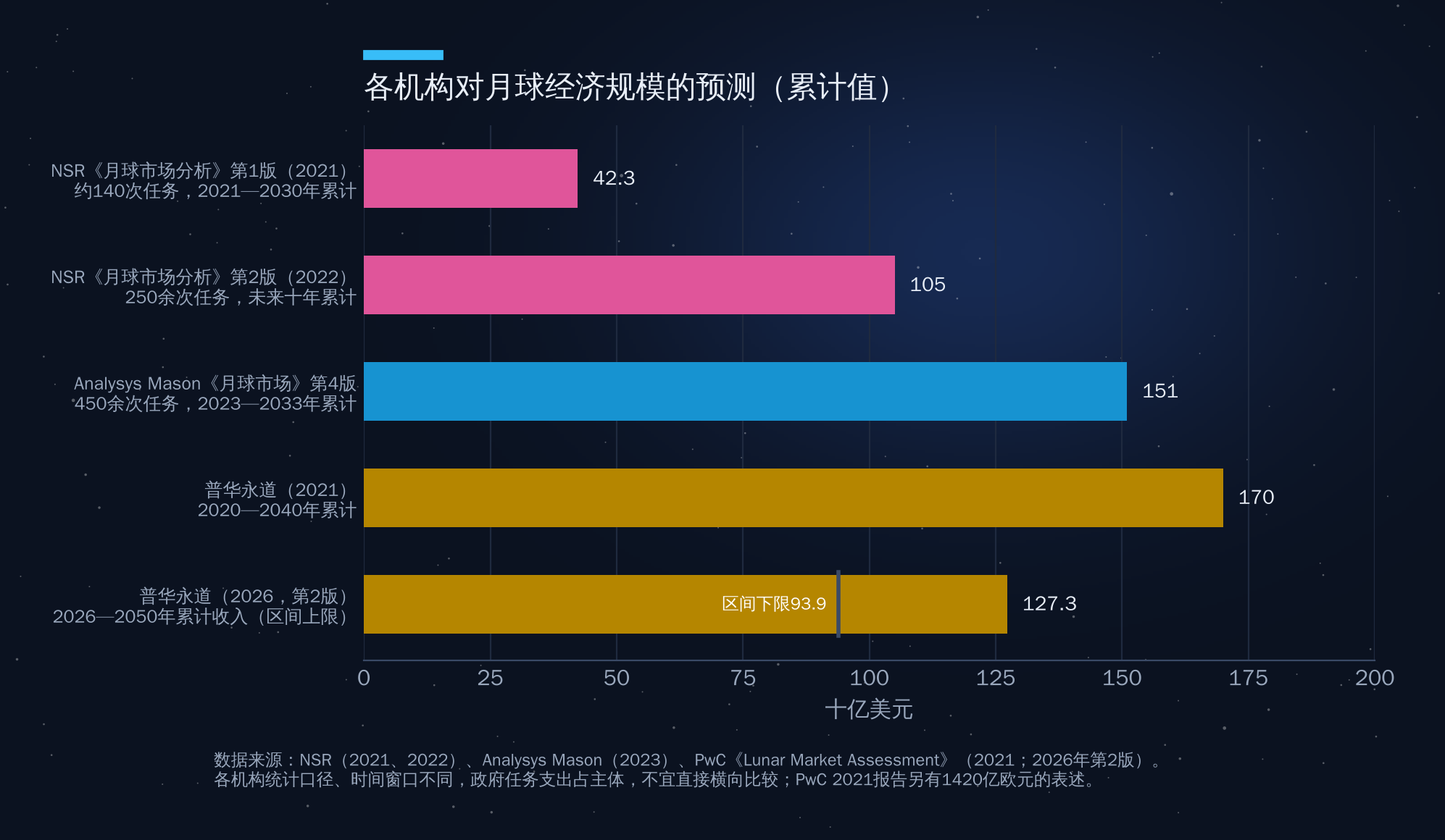
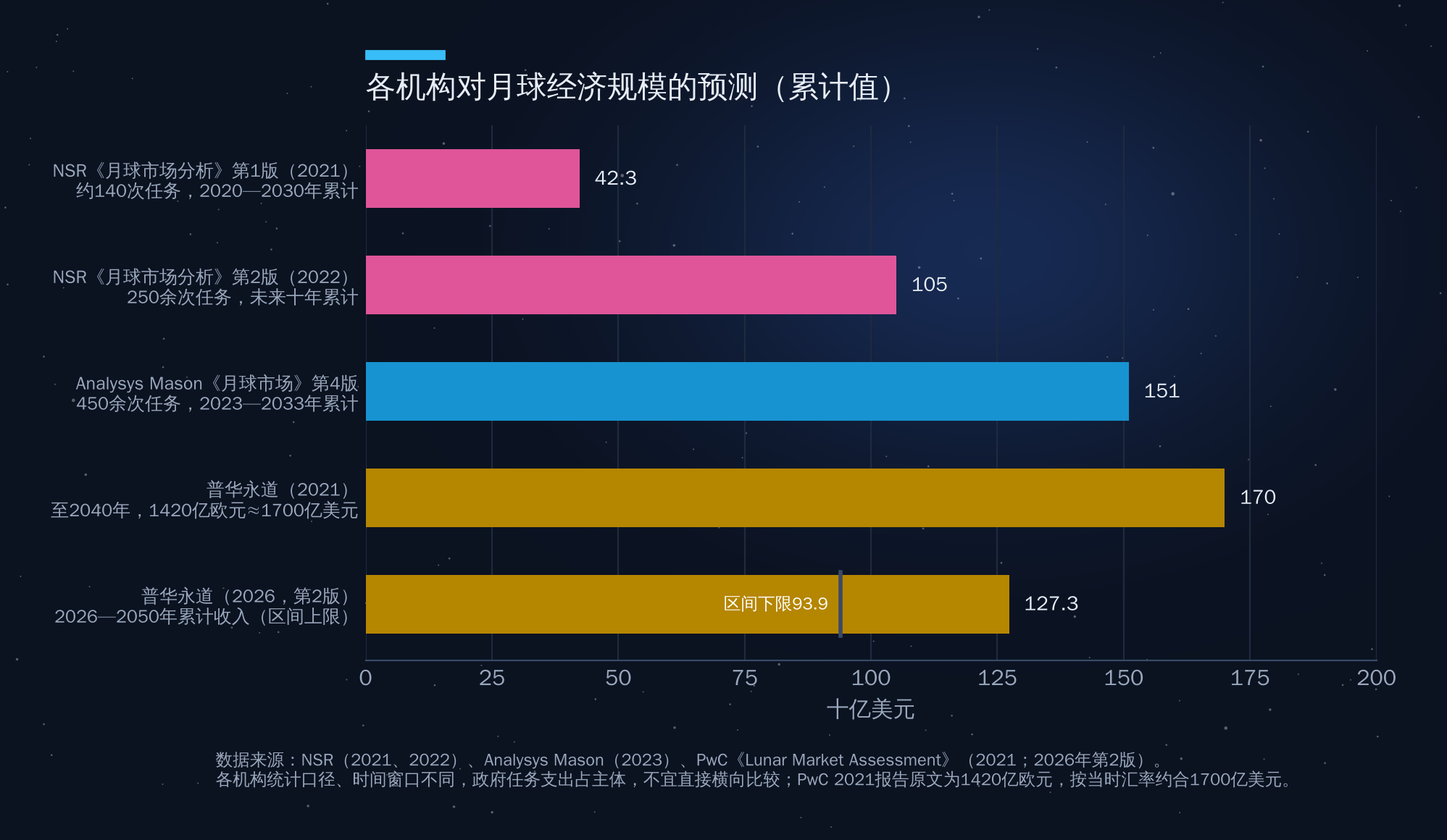
Part III: third-round exhaustive fact-check
Claude-Session: https://claude.ai/code/session_014tmLkR5ogaDPRCKC77QLgm

diff --git a/doha-space-economy/part3/charts/fig10-5_lunar_market.py b/doha-space-economy/part3/charts/fig10-5_lunar_market.py
@@ -3,10 +3,10 @@ sys.path.insert(0, str(pathlib.Path(__file__).resolve().parents[2] / "common"))
 from chartstyle import plt, PALETTE, ACCENT, GREY, save, source_note
 
 rows = [
-    ("NSR《月球市场分析》第1版（2021）\n约140次任务，2021—2030年累计", 42.3, PALETTE[5]),
+    ("NSR《月球市场分析》第1版（2021）\n约140次任务，2020—2030年累计", 42.3, PALETTE[5]),
     ("NSR《月球市场分析》第2版（2022）\n250余次任务，未来十年累计", 105, PALETTE[5]),
     ("Analysys Mason《月球市场》第4版\n450余次任务，2023—2033年累计", 151, PALETTE[0]),
-    ("普华永道（2021）\n2020—2040年累计", 170, PALETTE[3]),
+    ("普华永道（2021）\n至2040年，1420亿欧元≈1700亿美元", 170, PALETTE[3]),
     ("普华永道（2026，第2版）\n2026—2050年累计收入（区间上限）", 127.3, PALETTE[3]),
 ]
 fig, ax = plt.subplots(figsize=(9, 4.8))
@@ -22,5 +22,5 @@ ax.set_xlim(0, 200)
 ax.set_xlabel("十亿美元")
 ax.grid(axis="x", color="#E5E5E5"); ax.grid(axis="y", visible=False)
 ax.set_title("各机构对月球经济规模的预测（累计值）")
-source_note(fig, "数据来源：NSR（2021、2022）、Analysys Mason（2023）、PwC《Lunar Market Assessment》（2021；2026年第2版）。\n各机构统计口径、时间窗口不同，政府任务支出占主体，不宜直接横向比较；PwC 2021报告另有1420亿欧元的表述。")
+source_note(fig, "数据来源：NSR（2021、2022）、Analysys Mason（2023）、PwC《Lunar Market Assessment》（2021；2026年第2版）。\n各机构统计口径、时间窗口不同，政府任务支出占主体，不宜直接横向比较；PwC 2021报告原文为1420亿欧元，按当时汇率约合1700亿美元。")
 save(fig, __file__)

diff --git a/doha-space-economy/part3/charts/fig11-3_mars_cost.py b/doha-space-economy/part3/charts/fig11-3_mars_cost.py
@@ -6,7 +6,7 @@ rows = [
     ("印度 曼加里安（2013）", 0.74, PALETTE[2]),
     ("阿联酋 希望号（2020）", 2.0, PALETTE[2]),
     ("美国 火星探路者（1996）", 2.65, PALETTE[0]),
-    ("美国 MAVEN（2013）", 6.7, PALETTE[0]),
+    ("美国 MAVEN（2013）", 5.8, PALETTE[0]),
     ("美国 洞察号（2018）", 8.1, PALETTE[0]),
     ("美国 维京1/2号（1975）", 10.6, PALETTE[0]),
     ("美国 好奇号（2011）", 25, PALETTE[0]),
@@ -27,5 +27,5 @@ ax.set_xticklabels(["0.5", "1", "2", "5", "10", "20", "50", "100", "200"])
 ax.set_xlabel("任务成本（亿美元，名义值，对数坐标）")
 ax.grid(axis="x", color="#E5E5E5"); ax.grid(axis="y", visible=False)
 ax.set_title("典型火星任务成本对比：相差两个数量级")
-source_note(fig, "数据来源：ISRO、阿联酋穆罕默德·本·拉希德航天中心、NASA任务资料及NASA火星采样返回独立评审委员会（IRB-2，2023）。均为名义美元，\n未作通胀调整（维京号若折算为今日美元远高于图中数值）；各任务口径（是否含发射、运行）不完全一致。天问一号未公开成本，未列入。")
+source_note(fig, "数据来源：ISRO、阿联酋穆罕默德·本·拉希德航天中心、NASA任务资料及NASA火星采样返回独立评审委员会（IRB-2，2023）。MAVEN为实际决算（预算6.7亿）；均为名义美元，\n未作通胀调整（维京号若折算为今日美元远高于图中数值）；各任务口径（是否含发射、运行）不完全一致。天问一号未公开成本，未列入。")
 save(fig, __file__)

diff --git a/doha-space-economy/part3/charts/fig10-2_lunar_samples.py b/doha-space-economy/part3/charts/fig10-2_lunar_samples.py
@@ -4,7 +4,7 @@ from chartstyle import plt, PALETTE, ACCENT, GREY, save, source_note
 
 names = ["苏联月球16/20/24号\n（1970—1976，3次无人）", "中国嫦娥五号\n（2020，月球正面）", "中国嫦娥六号\n（2024，月球背面）", "美国阿波罗11—17号\n（1969—1972，6次载人）"]
 grams = [326, 1731, 1935.3, 382000]
-labels = ["约326克", "1731克", "1935.3克", "约382公斤"]
+labels = ["约0.3公斤", "1731克", "1935.3克", "约382公斤"]
 colors = [GREY, PALETTE[0], PALETTE[0], PALETTE[3]]
 fig, ax = plt.subplots(figsize=(8.5, 4.4))
 y = range(len(names))[::-1]
@@ -18,5 +18,5 @@ ax.set_xlim(50, 3e6)
 ax.set_xlabel("返回地球的月球样品质量（克，对数坐标）")
 ax.grid(axis="x", color="#E5E5E5"); ax.grid(axis="y", visible=False)
 ax.set_title("人类从月球带回的样品质量对比")
-source_note(fig, "数据来源：NASA（阿波罗约382公斤）、CNSA（嫦娥五号1731克、嫦娥六号1935.3克）；苏联三次采样分别约101克、55克、170克，合计约326克（各文献略有出入）。")
+source_note(fig, "数据来源：NASA（阿波罗约382公斤）、CNSA（嫦娥五号1731克、嫦娥六号1935.3克）；苏联三次采样分别约101克、55克（一说30克）、170克，合计约301—326克。")
 save(fig, __file__)

diff --git a/doha-space-economy/part3/charts/fig10-1_change_timeline.py b/doha-space-economy/part3/charts/fig10-1_change_timeline.py
@@ -13,7 +13,7 @@ events = [
     (2024.22, "鹊桥二号", "新一代中继星", "四期", "done"),
     (2024.48, "嫦娥六号", "月背采样1935.3克", "回", "done"),
     (2027.6, "嫦娥七号", "南极资源勘查\n（2026年8月推迟）", "四期", "plan"),
-    (2028.6, "嫦娥八号", "原位资源利用试验", "四期", "plan"),
+    (2029.2, "嫦娥八号", "原位资源利用试验\n（约2029年）", "四期", "plan"),
     (2029.9, "载人登月", "2030年前", "载人", "plan"),
     (2035.0, "ILRS基本型", "约2035年", "四期", "plan"),
 ]

diff --git a/doha-space-economy/part3/zz_notes.md b/doha-space-economy/part3/zz_notes.md
@@ -4,13 +4,13 @@
 
 **月球部分**
 
-- 美国行星协会（The Planetary Society）：《How much did the Apollo program cost?》，阿波罗计划1960—1973年支出258亿美元、折合2025年美元约3090亿美元（该页早期版本为2020年美元约2570亿美元）。
-- NASA监察长办公室：《NASA's Management of the Artemis Missions》（IG-22-003，2021年11月），阿尔忒弥斯2012—2025财年累计约930亿美元、单次SLS/猎户座约41亿美元。
-- NASA月球任务统计（据媒体2019年、2023年引用的NASA Moon Fact Sheet）：1958—2023年约111次月球任务，62次成功。
-- 国家航天局（CNSA）、中国载人航天工程办公室、新华社、中新网：嫦娥一号至六号任务、样品质量、嫦娥七号载荷与推迟通报（2026年8月23日）、嫦娥八号国际合作项目、国际月球科研站伙伴数量（2025年4月）、"嫦娥石"（2022年9月）及镁嫦娥石、铈嫦娥石（2026年4月）。
+- 美国行星协会：《How much did the Apollo program cost?》（阿波罗258亿美元，折合2025年约3090亿美元）。
+- NASA监察长办公室：IG-22-003（2021年，阿尔忒弥斯成本）；IG-26-004（2026年3月，载人着陆系统合同）。
+- NASA月球任务数据库（据2023年媒体引用）：111次月球任务，62次成功。
+- 国家航天局、中国载人航天工程办公室、新华社、中新网：嫦娥各任务、嫦娥七号推迟通报、嫦娥八号合作项目、国际月球科研站、月球新矿物。
 - 《自然》（Nature）2025年嫦娥六号样品系列论文；国家自然科学基金委2025年度"中国科学十大进展"（2026年3月发布）。
-- 中国载人航天工程办公室：长征十号低空演示验证与梦舟最大动压逃逸飞行试验（2026年2月11日）；神舟二十三号任务新闻发布会（2026年5月）。新华社：梦舟零高度逃逸（2025年6月17日）、揽月着陆起飞综合验证（2025年8月6日）、长征十号系留点火（2025年8月15日、9月12日）、长征十号乙首飞及一子级回收（2026年7月10日）；航天科技集团一院（长征十号地月转移运力不小于27吨）。
-- NASA、路透社、CNN、NBC等：阿尔忒弥斯2号（2026年4月1日—10日）、阿尔忒弥斯3号/4号调整、"点火"发布会（2026年3月24日）门户站暂停与约200亿美元月球基地计划、2026年6月约5.9亿美元月球基地货运合同。
+- 中国载人航天工程办公室、新华社、航天科技集团一院：梦舟、揽月、长征十号系列各项试验（2025—2026年）。
+- NASA及路透社、CNN、NBC等：阿尔忒弥斯2号、架构调整、"点火"发布会与月球基地计划及货运合同。
 - NASA阿尔忒弥斯协定页面、美国国务院：截至2026年9月25日共76个签署国。
 - Payload、《科学美国人》等：新格伦火箭2026年5月28日静态点火爆炸及对"蓝月"MK1的影响。
 - NSR《Moon Market Analysis》第1、2版；Analysys Mason《Lunar Markets》第4版；普华永道《Lunar Market Assessment》（2021年及2026年1月第2版）。
@@ -38,37 +38,47 @@
 1. 阿尔忒弥斯2号：已于2026年4月1日发射、4月10日溅落，四名乘组安全返回（NASA及多家媒体）。
 2. 阿尔忒弥斯3号：已改为2027年近地轨道交会对接试验；首次载人登月改为阿尔忒弥斯4号，目标2028年（NASA 2026年公布，具体日期仍为暂定）。
 3. 门户站：2026年3月24日NASA宣布"暂停当前形式"，转向月面基地；媒体有"取消"与"暂停"两种表述，本稿采用NASA原话"暂停"。
-4. 嫦娥七号：原定2026年8月下旬发射，8月23日官方宣布"不满足发射条件，不能在今年预定窗口实施"；第二轮核查（10月）仍未见官方公布原因和新日期，"推迟至2027年"为媒体推测（CGTN等解释为南极光照窗口所限）。
+4. 嫦娥七号：8月23日官方宣布不能在今年预定窗口实施；原因与新日期未公布，"推迟至2027年"为媒体推测。
 5. 天问二号：2026年7月抵达目标小行星；第二轮核实 → 尚未采样，约一年后采样、2027年底返回；采样目标约100克（原稿"几十到上百毫克"有误，已改）→ 国家航天局、新华社。
 6. 火星采样返回：2026年1月23日签署的拨款法案不支持现有MSR计划，另设1.1亿美元"火星未来任务"。
-7. 星舰火星计划：马斯克2026年2月宣布重点转向月球；未检索到SpaceX正式宣布放弃2026年窗口的声明，但2026年窗口发射星舰的可能性极低。
+7. 星舰火星计划：见第32条。
 8. 阿尔忒弥斯协定：76个签署国（圣马力诺，2026年9月25日）。
-9. 长征十号/梦舟：第二轮核实 → 截至10月8日梦舟一号/长征十号甲首次入轨飞行仍未实施（官方计划2026年内）；长征十号乙7月10日首飞并回收一子级，已补入正文 → 新华社。
+9. 长征十号/梦舟：梦舟一号/长征十号甲首次入轨飞行截至10月8日未实施；长征十号乙7月10日首飞并回收一子级 → 新华社。
 10. 阿波罗成本：采用行星协会现行页面的258亿美元（名义）/约3090亿美元（2025年美元）；常见的"2570亿美元"为2020年美元口径。
-11. 月球经济预测：普华永道2021年报告存在"1700亿美元"与"1420亿欧元"两种引用，图10-5采用1700亿美元并在图注中说明。
+11. 月球经济预测：见第27条。
 
 **第二轮核查（2026年10月8日）新增结论**
 
-12. 梦舟零高度逃逸（2025年6月17日，酒泉）、揽月着陆起飞综合验证（2025年8月6日，怀来）、长征十号系留点火（2025年8月15日、9月12日两次）→ 已核实，正文补具体日期 → 新华社。长征十号地月转移运力 → 官方口径"不小于27吨"（设计值；2023年曾有25吨说法），表10-3已改 → 航天科技集团一院、新华社。
+12. 梦舟零高度逃逸（2025年6月17日）、揽月综合验证（8月6日）、长征十号系留点火（8月15日、9月12日）→ 已核实；长征十号地月转移运力采用官方"不小于27吨" → 新华社、一院。
 13. 天问三号 → 已核实：2028年前后发射、2031年前后返回，样品约500克（新华社引述），2026年转入正样研制；已补入正文。
 14. 2026年月面着陆 → 已核实：截至10月初无新尝试；Griffin-1目标2026年11月（猎鹰重型），IM-3推至2027年上半年，"蓝月"MK1随新格伦复飞推至2027年初，"蓝色幽灵"M2为2027年 → NASA、Spaceflight Now等。
 15. 阿尔忒弥斯3号/4号 → 确认无新变化：3号为2027年近地轨道对接试验，4号目标2028年初登月，着陆器未定。门户站暂停后，阿联酋气闸舱与宇航员座位 → 仍无公开定论，正文表述不变。
 16. "拉希德2号" → 已核实：2023年因美国ITAR限制退出嫦娥七号，2025年5月改搭"蓝色幽灵"M2赴月背，目标2027年。正文已补，与第二、四部分一致。
-17. 国际月球科研站伙伴数 → 口径差异：本部分"17个国家和国际组织、50多个科研机构"为2025年4月中国航天日公布的口径（含亚太空间合作组织等国际组织）；第四部分"约13国"只计主权国家。正文已加括注说明。未检索到2026年官方新统计（有媒体援引2026年10月杨利伟讲话称"十多个国家、近30个国际科研机构"，原文未能核对）。
+17. 国际月球科研站伙伴数 → 口径差异：本部分"17个国家和国际组织"为2025年4月官方口径（含国际组织）；第四部分"约13国"只计主权国家，正文已括注。
 18. MAVEN → 已核实：2025年12月6日失联，2026年6月3日NASA异常评审委员会认定无法恢复、任务结束；表11-1已改。
 19. 罗莎琳德·富兰克林号 → 已核实：2028年发射、2030年着陆；国会2026财年拨款保留美方支持，NASA于2026年4月16日重申承诺；2027财年预算申请中未见相关经费，仍有变数。
 20. 日本MMX → 已核实：定于2026年10月20日用H3火箭发射（备用期至11月7日），2031财年返回；已补入正文，演讲前请确认。
 21. 约7亿美元火星通信轨道器 → 已核实，且有新进展：2026年9月1日NASA授予蓝色起源（"火星通信网络"，2028年底前交付、2030年前后运行）；已补入正文。ESCAPADE成本不到1亿美元确认。
 22. 嫦娥五号含水量 → 原稿"约120ppm"改为"不超过约120ppm"（上限值）；月船3号61.5亿卢比（约7500万美元）、SLIM落点距目标约55米 → 确认无误。
 
+**第三轮核查（2026年10月8日）新增结论**
+
+23. 已核实：火星航行往返约0.66希沃特（Zeitlin等，2013）、表面约0.64毫希沃特/天（Hassler等，2014）；MOXIE 16次运行、122克、最高每小时12克（NASA，2023年9月）；洞察号1319次火震、机遇号45.16公里（NASA、吉尼斯）。
+24. 有误已改：NASA 2024年5月火星商业服务研究为9家公司、12项研究（SpaceX、蓝色起源、洛克希德·马丁、联合发射联盟、Astrobotic、萤火虫、Impulse、Redwire、Albedo），原稿的"火箭实验室"不在其中 → NASA/JPL。
+25. 有误已改：嫦娥八号由"2028年前后"改为"2029年前后"（国家航天局2025年4月24日），正文、表10-2、图10-1已改。
+26. 图10-2：月球20号有55克、30克两说，苏联合计改为"约0.3公斤（301—326克）"。
+27. 图10-5：NSR第1版140次、423亿美元（2020—2030年）、第2版250余次、1050亿美元；Analysys Mason 450余次、1510亿美元（2023—2033年）→ 已核实。普华永道1420亿欧元与1700亿美元为同一估算的两种货币表述，已改。
+28. 图10-3的15次着陆逐项核对无误；NASA"111次、62次成功、41次失败、8次部分成功"确认（2023年媒体引述）。
+29. 图11-1逐项核对：美国22、苏联17、俄罗斯2、欧洲2、日本1、中国2、印度1、阿联酋1，合计48（成功20、部分7、失败21）。
+30. 图11-3：MAVEN由预算6.7亿改为决算约5.8亿美元（美国行星协会）；其余数值与希望号轨道参数确认。
+31. 星舰：V3首飞为2026年5月22日；在轨推进剂转移试验据NASA监察长IG-26-004推迟至2026年8月，截至8月下旬未实施，正文已改；加注次数改为"SpaceX估计约10次、NASA估计总发射十几次"。
+32. SpaceX 2026火星窗口：仍无正式放弃声明；《华尔街日报》2月6日报道与马斯克2月8日表态已核实，正文不变。
+33. 梦舟一号、嫦娥七号截至10月8日无新官方消息；MMX确认10月20日发射（备用期至11月7日）。
+34. 其他已核实：艾萨克曼"完美的任务"；月球基地第一阶段至2028年约100亿美元；2026年新签协定国家；阿拉伯天文学和空间科学联盟2024年4月加入国际月球科研站；嫦娥六号居2025年度"中国科学十大进展"首位；镁嫦娥石、铈嫦娥石；天问二号约400天、10亿公里；毅力号33管。"蓝宝石峡谷"引语改为达菲原话；ESA合同4.91亿欧元确认，"终止合同"改为"要求取消、商讨转用"。
+
 **仍未能在线核实、请作者确认的事项**
 
-以下内容第二轮因检索额度所限未逐条复核，依据公开报道和常用文献数值写成，建议演讲前核对：
-
-1. 梦舟一号/长征十号甲首次入轨飞行若在10月8日后实施，请更新第10.6节和表10-3；嫦娥七号如公布新窗口请同步更新。
-2. NASA 2024年火星商业服务研究的入选公司名单（正文列举SpaceX、蓝色起源、洛克希德·马丁、火箭实验室）。
-3. 火星辐射数据（航行阶段约0.66希沃特、表面约0.64毫希沃特/天）、MOXIE结果（16次运行、122克、每小时12克）、洞察号1300多次火震、机遇号行驶约45公里等，均为公开文献的常用数值。
-4. 图11-1火星任务统计为作者按航天器逐一整理（共48次），不同机构对"部分成功"的界定不同，总数可能与其他统计略有出入。
-5. 图11-2地火发射窗口为根据火星冲日日期推算的近似区间，非官方发布的窗口；具体任务的发射日期可略早或略晚（如MMX定于2026年10月20日发射，ESCAPADE采用"先发射、后借力"方式）。
-6. SpaceX是否正式放弃2026年火星窗口：二手资料称SpaceX已向投资者表示先月后火、官网火星货运改为"不早于2028年"，未检索到SpaceX正式声明，正文保持审慎表述。
-7. 火星探测公共投入"不到全球GDP十万分之五"为作者粗略估算（按全球年投入约50亿美元、全球GDP约110万亿美元计）。
+1. 梦舟一号首飞、嫦娥七号新窗口：如有官方消息请更新第10.6节、表10-3、图10-1。
+2. 普华永道2021年报告是否为累计值（原文PDF被拦截）。
+3. ESA要求取消地球返回轨道器的月份（"2026年3月"仅见汇总网站）。
+4. 图11-2发射窗口为作者按冲日推算的近似区间；"不到全球GDP十万分之五"为作者估算（年投入约50亿美元、GDP约110万亿美元）。

diff --git a/doha-space-economy/part3/ch10.md b/doha-space-economy/part3/ch10.md
@@ -12,7 +12,7 @@
 
 月球探测的前十年，几乎每一个"第一"都属于苏联。1959年1月，月球1号成为第一个脱离地球引力、飞越月球的航天器；同年9月14日，月球2号撞击月面，人类制造的物体第一次到达另一个天体；10月，月球3号拍下了人类从未见过的月球背面。1966年2月，月球9号在风暴洋实现人类首次月面软着陆，传回第一张月面全景照片；同年4月，月球10号成为第一颗月球人造卫星。
 
-载人登月竞赛失利之后，苏联转向无人采样。1970年9月，月球16号在丰富海钻取约101克月壤并返回地球，这是人类第一次用机器人从地外天体带回样品；两个月后，月球17号把"月球车1号"送上月面，这辆八轮遥控车累计行驶约10.5公里。月球20号（1972年，约55克）和月球24号（1976年，约170克）又带回两批样品，三次合计约326克。1976年8月的月球24号，也是苏联最后一次月球任务。
+载人登月竞赛失利之后，苏联转向无人采样。1970年9月，月球16号在丰富海钻取约101克月壤并返回地球，这是人类第一次用机器人从地外天体带回样品；两个月后，月球17号把"月球车1号"送上月面，这辆八轮遥控车累计行驶约10.5公里。月球20号（1972年，约55克，一说30克）和月球24号（1976年，约170克）又带回两批样品，三次合计约0.3公斤。1976年8月的月球24号，也是苏联最后一次月球任务。
 
 苏联的载人登月计划则因N1重型火箭连续四次发射失败（1969—1972年）而夭折。N1第一级有30台发动机并联，在当时的控制技术条件下难以协调，这一教训直到半个世纪后SpaceX用33台猛禽发动机的超重型助推器才算真正"翻篇"。
 
@@ -70,7 +70,7 @@
 | 鹊桥二号 | 2024年3月 | 四期 | 新一代中继星，服务嫦娥六、七、八号 |
 | 嫦娥六号 | 2024年5月 | 四期 | 人类首次月球背面采样，带回1935.3克 |
 | 嫦娥七号 | 原定2026年8月，已推迟 | 四期 | 南极环境与资源勘查 |
-| 嫦娥八号 | 计划2028年前后 | 四期 | 原位资源利用技术验证 |
+| 嫦娥八号 | 计划2029年前后 | 四期 | 原位资源利用技术验证 |
 
 ![图10-1　中国探月工程任务时间轴（2007—2035年）](charts/fig10-1_change_timeline.png)
 
@@ -106,7 +106,7 @@
 
 #### 嫦娥八号与国际月球科研站
 
-嫦娥八号计划2028年前后发射，由着陆器、月球车和智能月面机器人组成，最受关注的是"原位资源利用"试验——用聚集的太阳能熔融月壤、以3D打印方式制造"月壤砖"，验证"就地取材盖房子"的可能性。嫦娥八号向国际社会提供了约200公斤的载荷搭载能力，2025年4月公布的10个入选合作项目中，包括巴基斯坦月球车和香港高校研制的月面多功能操作机器人。
+嫦娥八号计划2029年前后发射（2025年4月官方口径），由着陆器、月球车和智能月面机器人组成，最受关注的是"原位资源利用"试验——用聚集的太阳能熔融月壤、以3D打印方式制造"月壤砖"，验证"就地取材盖房子"的可能性。嫦娥八号向国际社会提供了约200公斤的载荷搭载能力，2025年4月公布的10个入选合作项目中，包括巴基斯坦月球车和香港高校研制的月面多功能操作机器人。
 
 国际月球科研站（ILRS）由中国发起，计划在2035年前后于月球南极建成"基本型"，此后扩展为更完整的设施。截至2025年4月，已有17个国家和国际组织、50多个国际科研机构加入合作（若只计主权国家，约为13国，见第12章）。2024年4月，阿拉伯天文学和空间科学联盟（AUASS）加入国际月球科研站，这为海湾和阿拉伯国家参与中国主导的月球体系提供了制度化渠道。
 
@@ -164,7 +164,7 @@
 
 如图10-4所示，阿尔忒弥斯十多年的累计投入不到阿波罗折算后的三分之一，却还没有完成一次登月；而NASA预算在联邦支出中的比重只有阿波罗高峰期的十分之一左右。在这种约束下，美国只能把希望寄托在商业伙伴身上：SpaceX以约28.9亿美元（2021年）拿下首个载人着陆系统合同，后又获得追加任务；蓝色起源以约34亿美元（2023年）获得第二个着陆器合同。
 
-但商业方案也有自己的难题。星舰着陆器需要在近地轨道先由多艘"油轮"星舰补加推进剂——外界估计约需10次左右的加注发射——才能飞往月球。截至2026年年中，两艘星舰之间的在轨推进剂转移尚未进行，较NASA监察长此前跟踪的2026年3月节点已经延误。2026年5月，第三代（V3）星舰首次试飞。
+但商业方案也有自己的难题。星舰着陆器需要在近地轨道先由多艘"油轮"星舰补加推进剂——SpaceX估计约需10次左右的加注发射，NASA估计一次登月所需星舰发射总数在"十几次"——才能飞往月球。两艘星舰间的在轨推进剂转移试验原定2025年3月，NASA监察长2026年3月的报告显示已推迟到2026年8月；截至8月下旬仍未进行。2026年5月22日，第三代（V3）星舰首次试飞。
 
 另一个变化来自马斯克本人。2026年2月，他宣布SpaceX的近期重点从火星转向在月球建设"自我生长的城市"，理由是月球每10天就有发射机会，迭代速度远快于每26个月才有一次窗口的火星。据《华尔街日报》报道，SpaceX向投资者表示目标是在2027年3月前实现无人月面着陆。
 
@@ -222,7 +222,7 @@
 
 ![图10-5　各机构对月球经济规模的预测（累计值）](charts/fig10-5_lunar_market.png)
 
-如图10-5所示：NSR 2021年预测2021—2030年将有约140次月球任务、累计产生423亿美元收入，2022年将其上调为250余次任务、未来十年1050亿美元；Analysys Mason预测2023—2033年将有450余次任务、累计收入1510亿美元，但其中商业任务只占约25%；普华永道2021年的报告估算2020—2040年月球市场累计规模约1700亿美元，2026年1月发布的第二版则把时间窗口延长到2026—2050年，估算基础设施累计投资727亿—885亿美元，五大领域累计收入939亿—1273亿美元，并指出2026—2035年运输将占基础设施成本的70%—80%，而能源（尤其是月夜供电）才是可持续月面运行的最大瓶颈。
+如图10-5所示：NSR 2021年预测2020—2030年将有约140次月球任务、累计产生423亿美元收入，2022年将其上调为250余次任务、未来十年1050亿美元；Analysys Mason预测2023—2033年将有450余次任务、累计收入1510亿美元，但其中商业任务只占约25%；普华永道2021年的报告估算到2040年月球市场规模约1420亿欧元（约合1700亿美元），2026年1月发布的第二版则把时间窗口延长到2026—2050年，估算基础设施累计投资727亿—885亿美元，五大领域累计收入939亿—1273亿美元，并指出2026—2035年运输将占基础设施成本的70%—80%，而能源（尤其是月夜供电）才是可持续月面运行的最大瓶颈。
 
 这些数字有三个共同点值得强调。第一，月球经济在未来二三十年仍然是**以政府为主要买家**的市场——政府为探月和驻留付费，商业公司提供运输、通信、数据和建设服务。第二，**运输占大头**，这与第一部分讲到的发射成本下降直接相关：谁能把地月运输价格从每公斤百万美元降到每公斤十万美元，谁就能撬动整个市场。第三，按年均计算，月球市场每年只有数十亿美元，远小于今天卫星通信和遥感市场的规模。月球是近地经济的"延伸"，而不是替代。
 

diff --git a/doha-space-economy/part3/ch11.md b/doha-space-economy/part3/ch11.md
@@ -1,6 +1,6 @@
 ## 第11章　火星开发：历史、现状和未来计划
 
-在火星杰泽罗撞击坑，美国"毅力号"火星车已经工作了五年多，钻取并密封了三十多管经过精心挑选的岩芯和土壤样品，其中一块编号为"蓝宝石峡谷"的岩石样品被NASA称为"迄今最接近生命迹象的发现"。但这些样品可能很长时间都回不了地球：2026年1月，美国国会通过的2026财年拨款法案明确"不支持现有的火星采样返回计划"。
+在火星杰泽罗撞击坑，美国"毅力号"火星车已经工作了五年多，钻取并密封了三十多管经过精心挑选的岩芯和土壤样品，其中一块编号为"蓝宝石峡谷"的岩石样品，被时任NASA代理局长达菲称为"可能是我们在火星上发现过的最清晰的生命迹象"。但这些样品可能很长时间都回不了地球：2026年1月，美国国会通过的2026财年拨款法案明确"不支持现有的火星采样返回计划"。
 
 与此同时，中国的天问三号正按计划准备在2028年前后发射，目标是在2031年前后把火星样品带回地球。SpaceX曾计划在2026年11—12月的火星窗口发射无人星舰，如今重点已经转向月球。
 
@@ -76,7 +76,7 @@
 
 火星采样返回（MSR）曾是美国行星科学界的头号优先事项。原方案由NASA和欧洲航天局合作：毅力号采集样品，NASA的着陆器和火星上升火箭把样品送入火星轨道，欧洲的地球返回轨道器捕获并带回地球。
 
-问题出在成本。2023年9月，NASA的独立评审委员会估算MSR总成本将达80亿—110亿美元，且2030年代前期难以把样品带回，这相当于再造两到三个毅力号。2025年1月，NASA提出两种简化方案，估算成本降至约58亿—77亿美元，样品回到地球的时间推到2035—2039年之间。但政府更替后，2026财年预算申请提出终止MSR；2026年1月，国会通过的拨款法案在解释性声明中写明"如预算所提议，本协议不支持现有的火星采样返回计划"，仅安排1.1亿美元设立"火星未来任务"项目，用于相关技术研发。2026年3月，欧洲航天局成员国也要求取消地球返回轨道器，终止了与空客签订的约4.91亿欧元合同。
+问题出在成本。2023年9月，NASA的独立评审委员会估算MSR总成本将达80亿—110亿美元，且2030年代前期难以把样品带回，这相当于再造两到三个毅力号。2025年1月，NASA提出两种简化方案，估算成本降至约58亿—77亿美元，样品回到地球的时间推到2035—2039年之间。但政府更替后，2026财年预算申请提出终止MSR；2026年1月，国会通过的拨款法案在解释性声明中写明"如预算所提议，本协议不支持现有的火星采样返回计划"，仅安排1.1亿美元设立"火星未来任务"项目，用于相关技术研发。2026年3月，欧洲航天局成员国也要求取消地球返回轨道器（空客2020年获得的合同价值约4.91亿欧元），ESA转而与空客商讨部分硬件的转用。
 
 毅力号仍在工作、仍在采样，但截至目前，没有任何获批的任务会去取回这些样品。这是一个典型的"成本失控导致战略收缩"的案例，也给了中国一个机会。
 
@@ -88,13 +88,13 @@
 
 #### 火星的"CLPS化"：商业服务能否复制月球模式
 
-MSR的终止并不意味着美国退出火星。一个值得关注的趋势是，NASA正尝试把在月球上验证过的"购买服务"模式移植到火星。2024年，NASA选定了包括SpaceX、蓝色起源、洛克希德·马丁、火箭实验室等在内的多家公司，研究以商业方式提供火星载荷运输、中继通信和地表成像等服务。2025年7月生效的美国预算调节法案中，还安排了约7亿美元用于以商业方式采购一颗火星通信轨道器——这颗中继卫星将接替日益老化的火星奥德赛号和MRO，为未来的着陆任务提供数据"高速公路"。2026年9月，NASA宣布由蓝色起源以固定总价（最高约7亿美元）承建，基于其"蓝环"平台，要求2028年底前交付、2030年前后在火星投入运行。2025年11月，NASA的ESCAPADE双星任务搭乘蓝色起源"新格伦"火箭发射，单次任务成本不到1亿美元，是"小而快"的火星科学新范式。
+MSR的终止并不意味着美国退出火星。一个值得关注的趋势是，NASA正尝试把在月球上验证过的"购买服务"模式移植到火星。2024年5月，NASA选定SpaceX、蓝色起源、洛克希德·马丁、联合发射联盟、Astrobotic、萤火虫等9家公司开展12项概念研究，探讨以商业方式提供火星载荷运输、中继通信和地表成像等服务。2025年7月生效的美国预算调节法案中，还安排了约7亿美元用于以商业方式采购一颗火星通信轨道器——这颗中继卫星将接替日益老化的火星奥德赛号和MRO，为未来的着陆任务提供数据"高速公路"。2026年9月，NASA宣布由蓝色起源以固定总价（最高约7亿美元）承建，基于其"蓝环"平台，要求2028年底前交付、2030年前后在火星投入运行。2025年11月，NASA的ESCAPADE双星任务搭乘蓝色起源"新格伦"火箭发射，单次任务成本不到1亿美元，是"小而快"的火星科学新范式。
 
 如果这一模式成功，火星探测的成本结构可能像月球一样被重塑：国家机构从"造航天器"转向"买数据和服务"，商业公司则用同一套平台服务多个客户。但火星与月球有一个根本区别——26个月一次的窗口使"多次射门"的试错周期拉长了数十倍，商业公司很难承受"失败一次就要再等两年"的现金流压力。这也是为什么火星的商业化会比月球慢得多。
 
 #### SpaceX：从"2026年五艘星舰"到"先去月球"
 
-2016年，马斯克在国际宇航大会上提出"让人类成为多行星物种"，设想用上千艘可重复使用的飞船，在每个发射窗口集中出发，最终在火星建立百万人规模、可以自给自足的城市。2024年9月，他表示首批无人星舰将在2026年的地火窗口发射，SpaceX计划在该窗口发射约5艘；2025年5月，他把这一可能性说成"五五开"，关键制约是在轨推进剂加注。
+2016年，马斯克在国际宇航大会上提出"让人类成为多行星物种"，设想用上千艘可重复使用的飞船，在每个发射窗口集中出发，最终在火星建立百万人规模、可以自给自足的城市。2024年9月，他表示首批无人星舰将在2026年的地火窗口发射，此后又提出该窗口发射约5艘；2025年5月，他把这一可能性说成"五五开"，关键制约是在轨推进剂加注。
 
 但到2026年2月，马斯克宣布SpaceX的近期重点转向在月球建设"自我生长的城市"，称月球城市不到10年就可能实现，而火星需要20年以上，并表示将在约5—7年后启动火星城市建设。SpaceX官网对火星货运着陆的表述已改为"不早于2028年"。综合来看，2026年11—12月的火星窗口出现星舰的可能性已经极低——截至本稿写作时，SpaceX尚无正式声明明确放弃该窗口，作者演讲时可根据最新情况更新。
 
